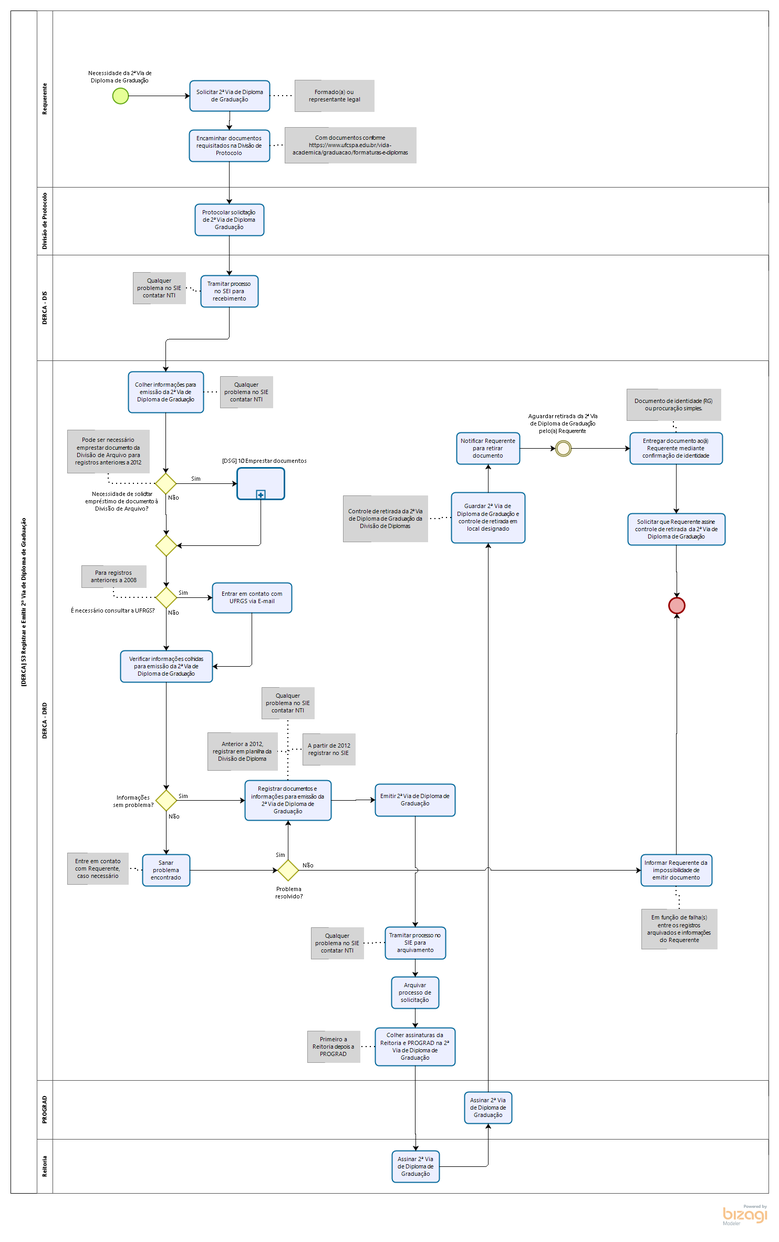
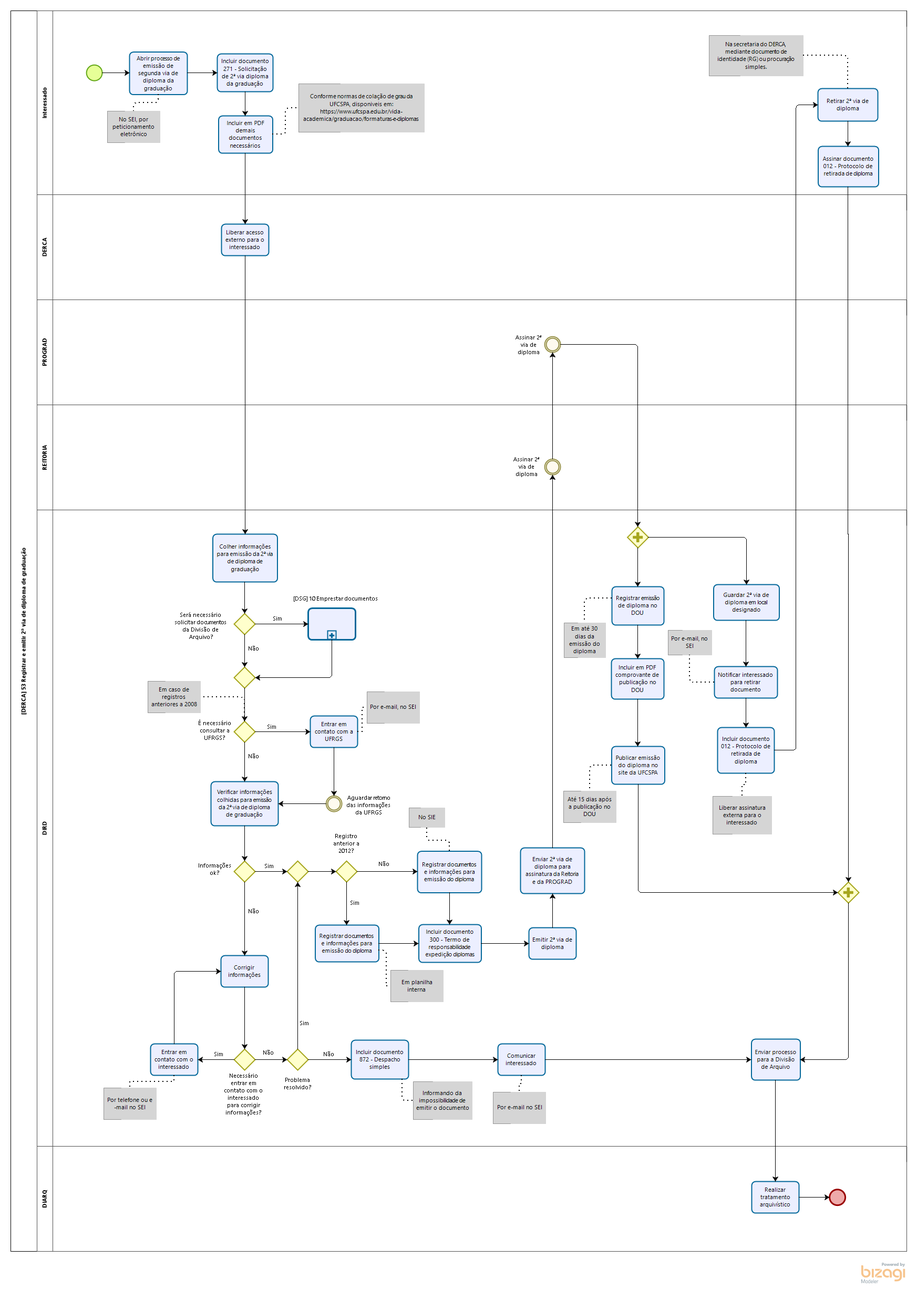
[DERCA]

diff --git a/DERCA/DERCA 53 Registrar e Emitir 2 Via de Diploma de Graduação/libs/js/json/configuration.json.js b/DERCA/DERCA 53 Registrar e Emitir 2 Via de Diploma de Graduação/libs/js/json/configuration.json.js
@@ -1,1 +1,1 @@
-Bizagi.AppModel = {"personalized":false,"userLogoName":"\\libs\\img\\biz-ex-logo.png","bizagiUrl":"http://www.bizagi.com","productName":"Bizagi Modeler","modelName":"[DERCA] 53 Registrar e Emitir 2ª Via de Diploma de Graduação","publishDate":"30/11/2020 16:06:32","pages":[{"id":"8a4c0eea-1cdb-470b-936f-0b0d9f3e6386","name":"[DERCA] 53 Registrar e Emitir 2ª Via de Diploma de Graduação","version":"1.0","author":"rene","image":"files\\diagrams\\DERCA]_53_Registrar_e_Emitir_2ª_Via_de_Diploma_de_Graduacao.png","isSubprocessPage":false,"elements":[{"id":"01489ed8-34c3-4faa-807f-bab0b367f8d5","name":"[DERCA] 53 Registrar e Emitir 2ª Via de Diploma de Graduação","elementImage":"files\\bpmnElements\\Participant.png","imageBounds":{"points":[{"x":20.0,"y":20.0}],"radius":0.0,"height":2251.0,"width":50.0,"shape":"rect"},"elementType":"Participant","properties":[],"pageElements":[{"id":"c446fce6-6dc6-41c4-bca2-61942ecdabb0","name":"Necessidade da 2ª Via de Diploma de Graduação","description":"<p style=\"text-align:left;text-indent:0pt;margin:0pt 0pt 0pt 0pt;\"><span style=\"color:#000000;background-color:transparent;font-family:'Segoe UI';font-size:8pt;font-weight:normal;font-style:normal;\">ENTRADA: Emiss&atilde;o da 1&ordf; Via de Diploma de Gradua&ccedil;&atilde;o.</span></p>","elementImage":"files\\bpmnElements\\NoneStart.png","imageBounds":{"points":[{"x":214.0,"y":167.0}],"radius":15.0,"height":30.0,"width":30.0,"shape":"circle"},"elementType":"NoneStart"},{"id":"e1400e25-ceb3-4605-9e7b-141e7c8614f7","name":"Solicitar 2ª Via de Diploma de Graduação","elementImage":"files\\bpmnElements\\AbstractTask.png","imageBounds":{"points":[{"x":361.0,"y":153.0}],"radius":0.0,"height":58.0,"width":152.0,"shape":"rect"},"elementType":"AbstractTask","properties":[]},{"id":"b5c9bb30-aee4-4470-9a87-41ee8f9c48fb","name":"Encaminhar documentos requisitados na Divisão de Protocolo","elementImage":"files\\bpmnElements\\AbstractTask.png","imageBounds":{"points":[{"x":360.0,"y":247.0}],"radius":0.0,"height":60.0,"width":153.0,"shape":"rect"},"elementType":"AbstractTask","properties":[]},{"id":"3c1b6ada-9776-4c29-8565-107de4a1ed41","name":"Protocolar solicitação de 2ª Via de Diploma Graduação","elementImage":"files\\bpmnElements\\AbstractTask.png","imageBounds":{"points":[{"x":371.0,"y":388.0}],"radius":0.0,"height":60.0,"width":131.0,"shape":"rect"},"elementType":"AbstractTask","properties":[]},{"id":"c60624aa-551f-4e77-8e7e-547ebbbbc2e7","name":"Tramitar processo no SEI para recebimento","elementImage":"files\\bpmnElements\\AbstractTask.png","imageBounds":{"points":[{"x":382.0,"y":524.0}],"radius":0.0,"height":60.0,"width":109.0,"shape":"rect"},"elementType":"AbstractTask","properties":[]},{"id":"aa07d95d-6e63-45be-b76e-3e21f13a4a66","name":"Colher informações para emissão da 2ª Via de Diploma de Graduação","elementImage":"files\\bpmnElements\\AbstractTask.png","imageBounds":{"points":[{"x":244.0,"y":707.0}],"radius":0.0,"height":78.0,"width":143.0,"shape":"rect"},"elementType":"AbstractTask","properties":[]},{"id":"0115908d-727e-4f8b-919f-bd1780cbb0fe","name":"Necessidade de solicitar empréstimo de documento à Divisão de Arquivo?","elementImage":"files\\bpmnElements\\ExclusiveGateway.png","imageBounds":{"points":[{"x":295.0,"y":900.0}],"radius":0.0,"height":40.0,"width":40.0,"shape":"poly"},"elementType":"ExclusiveGateway","properties":[],"pageElements":[{"name":"Sim","elementType":"SequenceFlow","properties":[]},{"name":"Não","elementType":"SequenceFlow","properties":[]}]},{"id":"65c23f8b-062f-4036-a2ce-33e4ec86a4d1","name":"[DSG] 10 Emprestar documentos","description":"","elementImage":"files\\bpmnElements\\CallActivity.png","imageBounds":{"points":[{"x":451.0,"y":890.0}],"radius":0.0,"height":60.0,"width":90.0,"shape":"rect"},"elementType":"CallActivity","properties":[],"presentationAction":{"value":"https://nqi.ufcspa.edu.br/wiki/processos/DSG/%5bDSG%5d%2010%20Emprestar%20documentos/#list","type":"url"}},{"id":"8f3229b0-4dbb-44d1-9643-b129db01c342","name":"Gateway exclusivo","elementImage":"files\\bpmnElements\\ExclusiveGateway.png","imageBounds":{"points":[{"x":296.0,"y":1018.0}],"radius":0.0,"height":40.0,"width":40.0,"shape":"poly"},"elementType":"ExclusiveGateway","properties":[],"pageElements":[{"name":"É necessário consultar a UFRGS?","elementType":"SequenceFlow","properties":[]}]},{"id":"31cf0dbe-ad36-4611-a75f-c9e0933cb1b6","name":"É necessário consultar a UFRGS?","elementImage":"files\\bpmnElements\\ExclusiveGateway.png","imageBounds":{"points":[{"x":296.0,"y":1117.0}],"radius":0.0,"height":40.0,"width":40.0,"shape":"poly"},"elementType":"ExclusiveGateway","properties":[],"pageElements":[{"name":"Não","elementType":"SequenceFlow","properties":[]},{"name":"Sim","elementType":"SequenceFlow","properties":[]}]},{"id":"5a82620a-26ea-4ea5-9fc3-b03ca622b289","name":"Entrar em contato com UFRGS via E-mail","elementImage":"files\\bpmnElements\\AbstractTask.png","imageBounds":{"points":[{"x":404.0,"y":1109.0}],"radius":0.0,"height":57.0,"width":151.0,"shape":"rect"},"elementType":"AbstractTask","properties":[]},{"id":"28efeb24-f01d-4cf2-a0dc-5a2d58385eb8","name":"Verificar informações colhidas para emissão da 2ª Via de Diploma de Graduação","elementImage":"files\\bpmnElements\\AbstractTask.png","imageBounds":{"points":[{"x":229.0,"y":1238.0}],"radius":0.0,"height":60.0,"width":175.0,"shape":"rect"},"elementType":"AbstractTask","properties":[]},{"id":"0a31158f-e9da-465b-8a31-575000ee94bf","name":"Informações sem problema?","elementImage":"files\\bpmnElements\\ExclusiveGateway.png","imageBounds":{"points":[{"x":296.0,"y":1503.0}],"radius":0.0,"height":40.0,"width":40.0,"shape":"poly"},"elementType":"ExclusiveGateway","properties":[],"pageElements":[{"name":"Sim","elementType":"SequenceFlow","properties":[]},{"name":"Não","elementType":"SequenceFlow","properties":[]}]},{"id":"36b78620-e076-4aed-b0b1-16fd2925d4c9","name":"Sanar problema encontrado","elementImage":"files\\bpmnElements\\AbstractTask.png","imageBounds":{"points":[{"x":271.0,"y":1626.0}],"radius":0.0,"height":60.0,"width":90.0,"shape":"rect"},"elementType":"AbstractTask","properties":[]},{"id":"d6caae2c-d29d-4878-be85-a0043cc6c3fe","name":"Problema resolvido?","elementImage":"files\\bpmnElements\\ExclusiveGateway.png","imageBounds":{"points":[{"x":528.0,"y":1636.0}],"radius":0.0,"height":40.0,"width":40.0,"shape":"poly"},"elementType":"ExclusiveGateway","properties":[],"pageElements":[{"name":"Sim","elementType":"SequenceFlow","properties":[]},{"name":"Não","elementType":"SequenceFlow","properties":[]}]},{"id":"451b8835-05cc-493b-9b79-670c7bcc7b38","name":"Informar Requerente da impossibilidade de emitir documento","elementImage":"files\\bpmnElements\\AbstractTask.png","imageBounds":{"points":[{"x":1220.0,"y":1626.0}],"radius":0.0,"height":60.0,"width":135.0,"shape":"rect"},"elementType":"AbstractTask","properties":[]},{"id":"9e221aef-8d4e-494f-991b-c794dc329d89","name":"Registrar documentos e informações para emissão da 2ª Via de Diploma de Graduação","elementImage":"files\\bpmnElements\\AbstractTask.png","imageBounds":{"points":[{"x":466.0,"y":1485.0}],"radius":0.0,"height":76.0,"width":164.0,"shape":"rect"},"elementType":"AbstractTask","properties":[]},{"id":"615d0124-a5c5-4a30-8c3b-1a2af36f67e9","name":"Emitir 2ª Via de Diploma de Graduação","elementImage":"files\\bpmnElements\\AbstractTask.png","imageBounds":{"points":[{"x":714.0,"y":1492.0}],"radius":0.0,"height":61.0,"width":152.0,"shape":"rect"},"elementType":"AbstractTask","properties":[]},{"id":"5e33b890-0d77-4be4-91cd-88d54d716da1","name":"Tramitar processo no SIE para arquivamento","elementImage":"files\\bpmnElements\\AbstractTask.png","imageBounds":{"points":[{"x":733.0,"y":1764.0}],"radius":0.0,"height":61.0,"width":115.0,"shape":"rect"},"elementType":"AbstractTask","properties":[]},{"id":"38dea01a-7791-4512-9339-6b39bf56c496","name":"Arquivar processo de solicitação","elementImage":"files\\bpmnElements\\AbstractTask.png","imageBounds":{"points":[{"x":745.0,"y":1859.0}],"radius":0.0,"height":60.0,"width":90.0,"shape":"rect"},"elementType":"AbstractTask","properties":[]},{"id":"ece3b62f-89d7-4378-8a1a-c40f2cd5f5ce","name":"Colher assinaturas da Reitoria e PROGRAD na 2ª Via de Diploma de Graduação","elementImage":"files\\bpmnElements\\AbstractTask.png","imageBounds":{"points":[{"x":714.0,"y":1956.0}],"radius":0.0,"height":72.0,"width":152.0,"shape":"rect"},"elementType":"AbstractTask","properties":[]},{"id":"fa863f5b-e12c-4960-b7b9-015134a0945b","name":"Assinar 2ª Via  de Diploma de Graduação","elementImage":"files\\bpmnElements\\AbstractTask.png","imageBounds":{"points":[{"x":746.0,"y":2190.0}],"radius":0.0,"height":60.0,"width":90.0,"shape":"rect"},"elementType":"AbstractTask","properties":[]},{"id":"60147344-afc3-48f7-a8a2-cbdec200822d","name":"Assinar 2ª Via de Diploma de Graduação","elementImage":"files\\bpmnElements\\AbstractTask.png","imageBounds":{"points":[{"x":884.0,"y":2078.0}],"radius":0.0,"height":60.0,"width":90.0,"shape":"rect"},"elementType":"AbstractTask","properties":[]},{"id":"2e916e87-e34b-4fa5-9615-419ae664e109","name":"Guardar 2ª Via de Diploma de Graduação e controle de retirada em local designado","elementImage":"files\\bpmnElements\\AbstractTask.png","imageBounds":{"points":[{"x":859.0,"y":937.0}],"radius":0.0,"height":96.0,"width":140.0,"shape":"rect"},"elementType":"AbstractTask","properties":[]},{"id":"7d319b7f-1cb6-4e77-8dd9-adee5b2df47c","name":"Notificar Requerente para retirar documento","elementImage":"files\\bpmnElements\\AbstractTask.png","imageBounds":{"points":[{"x":869.0,"y":823.0}],"radius":0.0,"height":60.0,"width":120.0,"shape":"rect"},"elementType":"AbstractTask","properties":[]},{"id":"412f071d-3b66-4b41-9cc9-55d953189f04","name":"Aguardar retirada  da 2ª Via de Diploma de Graduação pelo(a) Requerente","elementImage":"files\\bpmnElements\\NoneIntermediate.png","imageBounds":{"points":[{"x":1057.0,"y":838.0}],"radius":15.0,"height":30.0,"width":30.0,"shape":"circle"},"elementType":"NoneIntermediate"},{"id":"53ebac70-2a30-4576-b779-170add3f7f67","name":"Entregar documento ao(à) Requerente mediante confirmação de identidade","elementImage":"files\\bpmnElements\\AbstractTask.png","imageBounds":{"points":[{"x":1199.0,"y":823.0}],"radius":0.0,"height":60.0,"width":176.0,"shape":"rect"},"elementType":"AbstractTask","properties":[]},{"id":"80232e61-64ed-42cc-9cb6-c2d9d8c69105","name":"Solicitar que Requerente assine controle de retirada  da 2ª Via de Diploma de Graduação","elementImage":"files\\bpmnElements\\AbstractTask.png","imageBounds":{"points":[{"x":1195.0,"y":977.0}],"radius":0.0,"height":60.0,"width":185.0,"shape":"rect"},"elementType":"AbstractTask","properties":[]},{"id":"b7a23d73-e59c-4e1b-a719-cf3f44a92cba","name":"Nenhum final","description":"<p style=\"text-align:left;text-indent:0pt;margin:0pt 0pt 0pt 0pt;\"><span style=\"color:#000000;background-color:transparent;font-family:'Segoe UI';font-size:8pt;font-weight:normal;font-style:normal;\">SA&Iacute;DAS: (1) 2&ordf; Via de Diploma de Gradua&ccedil;&atilde;o emitido; (2) 2&ordf; Via de Diploma de Gradua&ccedil;&atilde;o n&atilde;o emitido; (3) E-mail de notifica&ccedil;&atilde;o solicitando retirada do documento enviado; (4) E-mail de notifica&ccedil;&atilde;o sobre a raz&atilde;o da n&atilde;o emiss&atilde;o do documento enviado; (5) 2&ordf; Via de Diploma de Gradua&ccedil;&atilde;o retirado; (6) 2&ordf; Via de Diploma de Gradua&ccedil;&atilde;o n&atilde;o retirado; (7) Processo de solicita&ccedil;&atilde;o de 2&ordf; Via de Diploma de Gradua&ccedil;&atilde;o arquivado.</span></p><p style=\"text-align:left;text-indent:0pt;margin:0pt 0pt 0pt 0pt;\"><span style=\"color:#000000;background-color:transparent;font-family:'Segoe UI';font-size:8pt;font-weight:normal;font-style:normal;\">&nbsp;</span></p><p style=\"text-align:left;text-indent:0pt;margin:0pt 0pt 0pt 0pt;\"><span style=\"color:#000000;background-color:transparent;font-family:'Segoe UI';font-size:8pt;font-weight:normal;font-style:normal;\">&nbsp;</span></p>","elementImage":"files\\bpmnElements\\NoneEnd.png","imageBounds":{"points":[{"x":1273.0,"y":1137.0}],"radius":15.0,"height":30.0,"width":30.0,"shape":"circle"},"elementType":"NoneEnd"},{"id":"82be3d87-1ec7-4278-8e8f-bc86758efd68","name":"Requerente","elementImage":"files\\bpmnElements\\Lane.png","imageBounds":{"points":[{"x":70.0,"y":20.0}],"radius":0.0,"height":336.0,"width":30.0,"shape":"rect"},"elementType":"Lane"},{"id":"8da87522-affb-429a-b737-3441f82411f3","name":"Divisão de Protocolo","elementImage":"files\\bpmnElements\\Lane.png","imageBounds":{"points":[{"x":70.0,"y":356.0}],"radius":0.0,"height":129.0,"width":30.0,"shape":"rect"},"elementType":"Lane"},{"id":"b117fa24-4048-45a8-8e89-7b93a30c5e38","name":"DERCA - DIS","elementImage":"files\\bpmnElements\\Lane.png","imageBounds":{"points":[{"x":70.0,"y":485.0}],"radius":0.0,"height":201.0,"width":30.0,"shape":"rect"},"elementType":"Lane"},{"id":"2353e909-0c55-4c09-b34d-de68ea36f091","name":"DERCA - DRD","elementImage":"files\\bpmnElements\\Lane.png","imageBounds":{"points":[{"x":70.0,"y":686.0}],"radius":0.0,"height":1370.0,"width":30.0,"shape":"rect"},"elementType":"Lane"},{"id":"51deacd1-ca98-461d-9830-fe6cd35300e4","name":"PROGRAD","elementImage":"files\\bpmnElements\\Lane.png","imageBounds":{"points":[{"x":70.0,"y":2056.0}],"radius":0.0,"height":112.0,"width":30.0,"shape":"rect"},"elementType":"Lane"},{"id":"f6dcb4bf-c90a-4c6a-be09-0f16c0a8aa2b","name":"Reitoria","elementImage":"files\\bpmnElements\\Lane.png","imageBounds":{"points":[{"x":70.0,"y":2168.0}],"radius":0.0,"height":103.0,"width":30.0,"shape":"rect"},"elementType":"Lane"}]}]}],"texts":{"tableOfContents":"Índice","pageNumber":"Página","pageNumberLabelOf":"de","version":"Versão","author":"Autor","description":"Descrição","mainPool":"Processo principal","mainPoolDescription":"Processo principal Descrição","processDiagrams":"Processar os Diagramas","processElements":"Elementos do processo","elements":"Elementos do processo","defaultElementName":"Elemento","performers":"Executantes","accountable":"Autoridade","consulted":"Consultado","informed":"Informado","connectors":"Conectores","connector":"Conector","home":"Principal","search":"Pesquisar","goToParentProcess":"<< Ir para Matriz","visitBizagi":"Visite bizagi.com","contains":"Contém {0} subprocessos","showAll":"Show all","fullScreen":"Tela inteira","zoomIn":"Ampliar","zoomOut":"Reduzir","close":"Fechar","menu":"Menu: ","errorPage":"Erro ao visualizar a página","process":"Processo","subProcess":"Subprocessos publicados","contain":"Contém","checkAttributes":"Ver atributos","checkOverview":"Ver resumo","unavailableResource":"O recurso não está disponível","localResource":"O recurso pode ser acessado localmente","performer":"Participantes","linktoimage":"Link para a  imagem","presentationAction":"Ações de apresentação","searchGlobal":"Busca todos","searchLocal":"Busca neste processo","searchResults":"Nenhum resultado encontrado","titlePage":"Start","emptyElement":"Este elemento ainda não foi documentado","unsupported":"Seu navegador não suporta conteúdo exibido por esta página. <br> Recomendamos que você atualizar o seu navegador.","details":"Detalhes","expand":"Expandir","mainPoolProperties":"Propriedades do Processo principal","cannotVisualize":"The page cannot be displayed","resourceNotFound":"The requested resource was not found:","applyTheme":"Applying new theme"},"searchMap":[{"containerId":"8a4c0eea-1cdb-470b-936f-0b0d9f3e6386","containerName":"[DERCA] 53 Registrar e Emitir 2ª Via de Diploma de Graduação","isSubprocess":false,"elements":[{"id":"01489ed8-34c3-4faa-807f-bab0b367f8d5","value":"[DERCA] 53 Registrar e Emitir 2ª Via de Diploma de Graduação"},{"id":"82be3d87-1ec7-4278-8e8f-bc86758efd68","value":"Requerente"},{"id":"8da87522-affb-429a-b737-3441f82411f3","value":"Divisão de Protocolo"},{"id":"b117fa24-4048-45a8-8e89-7b93a30c5e38","value":"DERCA - DIS"},{"id":"2353e909-0c55-4c09-b34d-de68ea36f091","value":"DERCA - DRD"},{"id":"51deacd1-ca98-461d-9830-fe6cd35300e4","value":"PROGRAD"},{"id":"f6dcb4bf-c90a-4c6a-be09-0f16c0a8aa2b","value":"Reitoria"},{"id":"e1400e25-ceb3-4605-9e7b-141e7c8614f7","value":"Solicitar 2ª Via de Diploma de Graduação"},{"id":"c446fce6-6dc6-41c4-bca2-61942ecdabb0","value":"Necessidade da 2ª Via de Diploma de Graduação"},{"id":"3c1b6ada-9776-4c29-8565-107de4a1ed41","value":"Protocolar solicitação de 2ª Via de Diploma Graduação"},{"id":"aa07d95d-6e63-45be-b76e-3e21f13a4a66","value":"Colher informações para emissão da 2ª Via de Diploma de Graduação"},{"id":"b5c9bb30-aee4-4470-9a87-41ee8f9c48fb","value":"Encaminhar documentos requisitados na Divisão de Protocolo"},{"id":"53ebac70-2a30-4576-b779-170add3f7f67","value":"Entregar documento ao(à) Requerente mediante confirmação de identidade"},{"id":"b7a23d73-e59c-4e1b-a719-cf3f44a92cba","value":""},{"id":"5e33b890-0d77-4be4-91cd-88d54d716da1","value":"Tramitar processo no SIE para arquivamento"},{"id":"ece3b62f-89d7-4378-8a1a-c40f2cd5f5ce","value":"Colher assinaturas da Reitoria e PROGRAD na 2ª Via de Diploma de Graduação"},{"id":"fa863f5b-e12c-4960-b7b9-015134a0945b","value":"Assinar 2ª Via  de Diploma de Graduação"},{"id":"c60624aa-551f-4e77-8e7e-547ebbbbc2e7","value":"Tramitar processo no SEI para recebimento"},{"id":"60147344-afc3-48f7-a8a2-cbdec200822d","value":"Assinar 2ª Via de Diploma de Graduação"},{"id":"2e916e87-e34b-4fa5-9615-419ae664e109","value":"Guardar 2ª Via de Diploma de Graduação e controle de retirada em local designado"},{"id":"38dea01a-7791-4512-9339-6b39bf56c496","value":"Arquivar processo de solicitação"},{"id":"7d319b7f-1cb6-4e77-8dd9-adee5b2df47c","value":"Notificar Requerente para retirar documento"},{"id":"80232e61-64ed-42cc-9cb6-c2d9d8c69105","value":"Solicitar que Requerente assine controle de retirada  da 2ª Via de Diploma de Graduação"},{"id":"412f071d-3b66-4b41-9cc9-55d953189f04","value":"Aguardar retirada  da 2ª Via de Diploma de Graduação pelo(a) Requerente"},{"id":"0115908d-727e-4f8b-919f-bd1780cbb0fe","value":"Necessidade de solicitar empréstimo de documento à Divisão de Arquivo?"},{"id":"36b78620-e076-4aed-b0b1-16fd2925d4c9","value":"Sanar problema encontrado"},{"id":"d6caae2c-d29d-4878-be85-a0043cc6c3fe","value":"Problema resolvido?"},{"id":"0a31158f-e9da-465b-8a31-575000ee94bf","value":"Informações sem problema?"},{"id":"615d0124-a5c5-4a30-8c3b-1a2af36f67e9","value":"Emitir 2ª Via de Diploma de Graduação"},{"id":"9e221aef-8d4e-494f-991b-c794dc329d89","value":"Registrar documentos e informações para emissão da 2ª Via de Diploma de Graduação"},{"id":"451b8835-05cc-493b-9b79-670c7bcc7b38","value":"Informar Requerente da impossibilidade de emitir documento"},{"id":"31cf0dbe-ad36-4611-a75f-c9e0933cb1b6","value":"É necessário consultar a UFRGS?"},{"id":"28efeb24-f01d-4cf2-a0dc-5a2d58385eb8","value":"Verificar informações colhidas para emissão da 2ª Via de Diploma de Graduação"},{"id":"5a82620a-26ea-4ea5-9fc3-b03ca622b289","value":"Entrar em contato com UFRGS via E-mail"},{"id":"8f3229b0-4dbb-44d1-9643-b129db01c342","value":""},{"id":"65c23f8b-062f-4036-a2ce-33e4ec86a4d1","value":"[DSG] 10 Emprestar documentos"},{"id":"f8761f9b-e57c-4fae-86a1-1ff68868bbd1"},{"id":"51026777-1759-4b75-91c6-7874e9718b21"},{"id":"d5430ba7-4f12-4ae0-9b97-2539f2bca367"},{"id":"f0257f97-0169-4f32-879d-1377d08acf36"},{"id":"d434f57b-a16f-4002-8aa9-f4e86ddbced6"},{"id":"980a712a-af4a-4475-a74c-174cbf60cc9c"},{"id":"82e710f7-561f-4d57-983a-e270e1c3b9a2"},{"id":"3da7e50b-0bdc-4f5a-8b53-f9b0be80f7a1"},{"id":"530352eb-ad9d-449e-be3e-c27c5fe9c17a"},{"id":"9167d086-c56a-4966-bbbf-e29f04be29a9"},{"id":"01c8e8d3-2f76-4945-b516-a6c7da84976e"},{"id":"18c228dd-be99-4510-9b0f-c0c5c689b76e"},{"id":"7efe22ae-cb97-4f4b-a51e-e04225bf5106"},{"id":"fc2fe099-7572-47e1-a8fa-dae7a5912534"},{"id":"081e573f-e401-40a0-b26e-21abdfd25421"},{"id":"e46628ca-df08-4690-83fe-97946155b5ec"},{"id":"d251a3cc-24b9-480d-a580-67c04cdadd46"},{"id":"b60e0084-e151-4236-ac60-68712b9ff930"},{"id":"bf3bcad4-dc78-42d5-8472-5d8ae4e9521d"},{"id":"d16470c0-9c11-4715-94ac-893c6a8d4fe2"},{"id":"7ccff44a-1838-4616-904a-45b76b8b7967"},{"id":"23aaa061-a64a-4330-8d24-98c590d0bd8c"},{"id":"3352f431-dbe8-4e8b-a72f-79975e8e7acf"},{"id":"c39796fe-9327-433d-8b9c-ea524751c0b5"},{"id":"fab77ec1-3a47-4931-aeef-040fda18b1b6"},{"id":"4175e1df-c8d1-4bb2-b42c-db9b2a424610"},{"id":"dc2d4cd6-5642-41b0-8c18-e3f157a43977"},{"id":"cfccc667-3c3b-4353-8851-4e8d52b2e699"},{"id":"54529dad-472f-4fa4-82bd-11ada5591790"},{"id":"4b054e08-2b1f-4b6b-a44b-791deca15210"}]}]}
+Bizagi.AppModel = {"personalized":false,"userLogoName":"\\libs\\img\\biz-ex-logo.png","bizagiUrl":"http://www.bizagi.com","productName":"Bizagi Modeler","modelName":"[DERCA] 53 Registrar e emitir 2ª via de diploma de graduação","publishDate":"08/01/2021 17:14:28","pages":[{"id":"c1f125a7-11f8-493f-9c89-bcead161ce93","name":"[DERCA] 53 Registrar e emitir 2ª via de diploma de graduação","version":"1.0","author":"ariel","image":"files\\diagrams\\DERCA]_53_Registrar_e_emitir_2ª_via_de_diploma_de_graduacao.png","isSubprocessPage":false,"elements":[{"id":"16a8c3b0-fb68-4d62-9179-b0da5496fb4c","name":"[DERCA] 53 Registrar e emitir 2ª via de diploma de graduação","elementImage":"files\\bpmnElements\\Participant.png","imageBounds":{"points":[{"x":20.0,"y":20.0}],"radius":0.0,"height":2361.0,"width":50.0,"shape":"rect"},"elementType":"Participant","properties":[],"pageElements":[{"id":"40794d1e-03fc-4053-a182-6c30f6b2aa00","name":"Nenhum início","elementImage":"files\\bpmnElements\\NoneStart.png","imageBounds":{"points":[{"x":164.0,"y":123.0}],"radius":15.0,"height":30.0,"width":30.0,"shape":"circle"},"elementType":"NoneStart"},{"id":"7bfa67b1-fdd0-4404-8463-59ad1ea5eceb","name":"Abrir processo de emissão de segunda via de diploma da graduação","elementImage":"files\\bpmnElements\\AbstractTask.png","imageBounds":{"points":[{"x":246.0,"y":98.5}],"radius":0.0,"height":81.0,"width":110.0,"shape":"rect"},"elementType":"AbstractTask","properties":[]},{"id":"b7075666-ff32-4d95-9ef2-0b4da6000364","name":"Incluir documento 271 - Solicitação de 2ª via diploma da graduação","elementImage":"files\\bpmnElements\\AbstractTask.png","imageBounds":{"points":[{"x":413.0,"y":102.0}],"radius":0.0,"height":72.0,"width":106.0,"shape":"rect"},"elementType":"AbstractTask","properties":[]},{"id":"8ef121d2-2aac-4b43-952c-838503bd941e","name":"Incluir em PDF demais documentos necessários","elementImage":"files\\bpmnElements\\AbstractTask.png","imageBounds":{"points":[{"x":415.5,"y":220.0}],"radius":0.0,"height":71.0,"width":103.0,"shape":"rect"},"elementType":"AbstractTask","properties":[]},{"id":"ab53e4a1-ccf0-4f14-9b14-6254ddced416","name":"Liberar acesso externo para o interessado","elementImage":"files\\bpmnElements\\AbstractTask.png","imageBounds":{"points":[{"x":421.0,"y":426.0}],"radius":0.0,"height":60.0,"width":90.0,"shape":"rect"},"elementType":"AbstractTask","properties":[]},{"id":"89302ca5-0d97-433f-9c7b-cfb7fb2deebf","name":"Colher informações para emissão da 2ª via de diploma de graduação","elementImage":"files\\bpmnElements\\AbstractTask.png","imageBounds":{"points":[{"x":404.5,"y":1016.0}],"radius":0.0,"height":91.0,"width":123.0,"shape":"rect"},"elementType":"AbstractTask","properties":[]},{"id":"6221e416-c7ae-4ff5-aa83-eb2b7bb41ba1","name":"Será necessário solicitar documentos da Divisão de Arquivo?","elementImage":"files\\bpmnElements\\ExclusiveGateway.png","imageBounds":{"points":[{"x":445.0,"y":1167.0}],"radius":0.0,"height":40.0,"width":40.0,"shape":"poly"},"elementType":"ExclusiveGateway","properties":[],"pageElements":[{"name":"Sim","elementType":"SequenceFlow","properties":[]},{"name":"Não","elementType":"SequenceFlow","properties":[]}]},{"id":"d2170b40-72f6-4de0-ab25-e6d2b75ee5ff","name":"[DSG] 10 Emprestar documentos","description":"","elementImage":"files\\bpmnElements\\CallActivity.png","imageBounds":{"points":[{"x":586.0,"y":1157.0}],"radius":0.0,"height":60.0,"width":90.0,"shape":"rect"},"elementType":"CallActivity","properties":[],"presentationAction":{"value":"https://nqi.ufcspa.edu.br/wiki/processos/DSG/%5bDSG%5d%2010%20Emprestar%20documentos/#list","type":"url"}},{"id":"3f96a86c-060b-4aa7-b194-cea4ab5e2f8b","name":"Gateway exclusivo","elementImage":"files\\bpmnElements\\ExclusiveGateway.png","imageBounds":{"points":[{"x":445.0,"y":1269.0}],"radius":0.0,"height":40.0,"width":40.0,"shape":"poly"},"elementType":"ExclusiveGateway","properties":[],"pageElements":[{"name":"É necessário consultar a UFRGS?","elementType":"SequenceFlow","properties":[]}]},{"id":"6b40da0e-c80c-49da-b46e-543cf685f725","name":"É necessário consultar a UFRGS?","elementImage":"files\\bpmnElements\\ExclusiveGateway.png","imageBounds":{"points":[{"x":445.0,"y":1372.0}],"radius":0.0,"height":40.0,"width":40.0,"shape":"poly"},"elementType":"ExclusiveGateway","properties":[],"pageElements":[{"name":"Sim","elementType":"SequenceFlow","properties":[]},{"name":"Não","elementType":"SequenceFlow","properties":[]}]},{"id":"4c900dc9-d5d6-4963-b43f-f9d5e3272ebd","name":"Entrar em contato com a UFRGS","elementImage":"files\\bpmnElements\\AbstractTask.png","imageBounds":{"points":[{"x":590.0,"y":1362.0}],"radius":0.0,"height":60.0,"width":90.0,"shape":"rect"},"elementType":"AbstractTask","properties":[]},{"id":"2f6f6c4d-3f29-49fe-a91d-b6714d8847ff","name":"Aguardar retorno das informações da UFRGS","elementImage":"files\\bpmnElements\\NoneIntermediate.png","imageBounds":{"points":[{"x":620.0,"y":1514.0}],"radius":15.0,"height":30.0,"width":30.0,"shape":"circle"},"elementType":"NoneIntermediate"},{"id":"6caba6ee-4344-49c5-b967-aa84229ef483","name":"Verificar informações colhidas para emissão da 2ª via de diploma de graduação","elementImage":"files\\bpmnElements\\AbstractTask.png","imageBounds":{"points":[{"x":401.0,"y":1487.0}],"radius":0.0,"height":84.0,"width":128.0,"shape":"rect"},"elementType":"AbstractTask","properties":[]},{"id":"9bf6f93e-7dd7-462b-94bb-62af2d5268e2","name":"Informações ok?","elementImage":"files\\bpmnElements\\ExclusiveGateway.png","imageBounds":{"points":[{"x":445.0,"y":1638.0}],"radius":0.0,"height":40.0,"width":40.0,"shape":"poly"},"elementType":"ExclusiveGateway","properties":[],"pageElements":[{"name":"Sim","elementType":"SequenceFlow","properties":[]},{"name":"Não","elementType":"SequenceFlow","properties":[]}]},{"id":"b03add83-7c0e-41f0-b25f-bc8d0799bc2c","name":"Corrigir informações","elementImage":"files\\bpmnElements\\AbstractTask.png","imageBounds":{"points":[{"x":420.0,"y":1818.0}],"radius":0.0,"height":60.0,"width":90.0,"shape":"rect"},"elementType":"AbstractTask","properties":[]},{"id":"2c72aad2-4e3d-49b9-b007-a95bf34c2c9d","name":"Necessário entrar em contato com o interessado para corrigir informações?","elementImage":"files\\bpmnElements\\ExclusiveGateway.png","imageBounds":{"points":[{"x":445.0,"y":1996.0}],"radius":0.0,"height":40.0,"width":40.0,"shape":"poly"},"elementType":"ExclusiveGateway","properties":[],"pageElements":[{"name":"Não","elementType":"SequenceFlow","properties":[]},{"name":"Sim","elementType":"SequenceFlow","properties":[]}]},{"id":"2259fdae-fce1-4b7d-a0a9-a7c08e865edf","name":"Entrar em contato com o interessado","elementImage":"files\\bpmnElements\\AbstractTask.png","imageBounds":{"points":[{"x":286.0,"y":1986.0}],"radius":0.0,"height":60.0,"width":90.0,"shape":"rect"},"elementType":"AbstractTask","properties":[]},{"id":"03aa3b77-41b1-4b51-a982-6082e5383755","name":"Problema resolvido?","elementImage":"files\\bpmnElements\\ExclusiveGateway.png","imageBounds":{"points":[{"x":546.0,"y":1996.0}],"radius":0.0,"height":40.0,"width":40.0,"shape":"poly"},"elementType":"ExclusiveGateway","properties":[],"pageElements":[{"name":"Sim","elementType":"SequenceFlow","properties":[]},{"name":"Não","elementType":"SequenceFlow","properties":[]}]},{"id":"40c0de43-6cf8-43dd-97ce-924e82c33696","name":"Incluir documento 872 - Despacho simples","elementImage":"files\\bpmnElements\\AbstractTask.png","imageBounds":{"points":[{"x":668.0,"y":1979.0}],"radius":0.0,"height":74.0,"width":109.0,"shape":"rect"},"elementType":"AbstractTask","properties":[]},{"id":"2b7006d4-030c-47ba-99c6-df4aacaec8e6","name":"Comunicar interessado","elementImage":"files\\bpmnElements\\AbstractTask.png","imageBounds":{"points":[{"x":947.0,"y":1986.0}],"radius":0.0,"height":60.0,"width":90.0,"shape":"rect"},"elementType":"AbstractTask","properties":[]},{"id":"2973e377-9d26-47c4-a490-d9078e412783","name":"Gateway exclusivo","elementImage":"files\\bpmnElements\\ExclusiveGateway.png","imageBounds":{"points":[{"x":546.0,"y":1638.0}],"radius":0.0,"height":40.0,"width":40.0,"shape":"poly"},"elementType":"ExclusiveGateway","properties":[],"pageElements":[{"name":"Registro anterior a 2012?","elementType":"SequenceFlow","properties":[]}]},{"id":"f2cee320-30ea-4759-a26d-73569d1a3da4","name":"Registro anterior a 2012?","elementImage":"files\\bpmnElements\\ExclusiveGateway.png","imageBounds":{"points":[{"x":639.0,"y":1638.0}],"radius":0.0,"height":40.0,"width":40.0,"shape":"poly"},"elementType":"ExclusiveGateway","properties":[],"pageElements":[{"name":"Sim","elementType":"SequenceFlow","properties":[]},{"name":"Não","elementType":"SequenceFlow","properties":[]}]},{"id":"42c8c040-eef0-4dd4-af22-62f9e848bc7e","name":"Registrar documentos e informações para emissão do diploma","elementImage":"files\\bpmnElements\\AbstractTask.png","imageBounds":{"points":[{"x":599.5,"y":1760.0}],"radius":0.0,"height":70.0,"width":121.0,"shape":"rect"},"elementType":"AbstractTask","properties":[]},{"id":"99179b5c-68ad-4d7f-a986-c6233ee4ff03","name":"Registrar documentos e informações para emissão do diploma","elementImage":"files\\bpmnElements\\AbstractTask.png","imageBounds":{"points":[{"x":794.0,"y":1619.5}],"radius":0.0,"height":79.0,"width":122.0,"shape":"rect"},"elementType":"AbstractTask","properties":[]},{"id":"9fd18934-02b4-4165-af83-0f63268915fd","name":"Incluir documento 300 - Termo de responsabilidade expedição diplomas","elementImage":"files\\bpmnElements\\AbstractTask.png","imageBounds":{"points":[{"x":796.5,"y":1759.0}],"radius":0.0,"height":72.0,"width":119.0,"shape":"rect"},"elementType":"AbstractTask","properties":[]},{"id":"6eb16cef-bc81-4f33-8f6c-eeb4492117d7","name":"Emitir 2ª via de diploma","elementImage":"files\\bpmnElements\\AbstractTask.png","imageBounds":{"points":[{"x":1006.0,"y":1765.0}],"radius":0.0,"height":60.0,"width":90.0,"shape":"rect"},"elementType":"AbstractTask","properties":[]},{"id":"0aa1c074-a90f-45c9-97a3-fdcd60480924","name":"Enviar 2ª via de diploma para assinatura da Reitoria e da PROGRAD","elementImage":"files\\bpmnElements\\AbstractTask.png","imageBounds":{"points":[{"x":990.0,"y":1613.0}],"radius":0.0,"height":87.0,"width":122.0,"shape":"rect"},"elementType":"AbstractTask","properties":[]},{"id":"06d46381-6352-4f37-b41e-8cf8ebd7b5e3","name":"Assinar 2ª via de  diploma","elementImage":"files\\bpmnElements\\NoneIntermediate.png","imageBounds":{"points":[{"x":1036.0,"y":873.0}],"radius":15.0,"height":30.0,"width":30.0,"shape":"circle"},"elementType":"NoneIntermediate"},{"id":"48a688df-f7bc-427f-978e-c7ef87923736","name":"Assinar 2ª via de  diploma","elementImage":"files\\bpmnElements\\NoneIntermediate.png","imageBounds":{"points":[{"x":1036.0,"y":640.0}],"radius":15.0,"height":30.0,"width":30.0,"shape":"circle"},"elementType":"NoneIntermediate"},{"id":"235af4ea-f38f-43e2-977b-d337c8d1c2ae","name":"Gateway paralelo","elementImage":"files\\bpmnElements\\ParallelGateway.png","imageBounds":{"points":[{"x":1193.5,"y":1002.0}],"radius":0.0,"height":40.0,"width":40.0,"shape":"poly"},"elementType":"ParallelGateway","properties":[],"pageElements":[]},{"id":"306dcd37-ef60-4f16-9b7a-cce7dd52cca5","name":"Guardar 2ª via de diploma em local designado","elementImage":"files\\bpmnElements\\AbstractTask.png","imageBounds":{"points":[{"x":1357.5,"y":1112.0}],"radius":0.0,"height":68.0,"width":125.0,"shape":"rect"},"elementType":"AbstractTask","properties":[]},{"id":"83d614cb-dade-491d-969d-c4fe3d064c16","name":"Notificar interessado para retirar documento","elementImage":"files\\bpmnElements\\AbstractTask.png","imageBounds":{"points":[{"x":1359.0,"y":1268.0}],"radius":0.0,"height":60.0,"width":120.0,"shape":"rect"},"elementType":"AbstractTask","properties":[]},{"id":"ce40b3dc-370d-4b25-b1d1-651ea2886686","name":"Incluir documento 012 - Protocolo de retirada de diploma","elementImage":"files\\bpmnElements\\AbstractTask.png","imageBounds":{"points":[{"x":1365.0,"y":1384.0}],"radius":0.0,"height":87.0,"width":108.0,"shape":"rect"},"elementType":"AbstractTask","properties":[]},{"id":"a2df6ca2-3cb5-4b6b-af2e-68b6d72ade9c","name":"Retirar 2ª via de diploma","elementImage":"files\\bpmnElements\\AbstractTask.png","imageBounds":{"points":[{"x":1556.0,"y":168.0}],"radius":0.0,"height":62.0,"width":114.0,"shape":"rect"},"elementType":"AbstractTask","properties":[]},{"id":"6ea59009-0fe4-4be8-bcdf-0aa3511f75ee","name":"Assinar documento 012 - Protocolo de retirada de diploma","elementImage":"files\\bpmnElements\\AbstractTask.png","imageBounds":{"points":[{"x":1556.5,"y":278.0}],"radius":0.0,"height":77.0,"width":115.0,"shape":"rect"},"elementType":"AbstractTask","properties":[]},{"id":"609b9602-e645-441a-bf43-bdcabb0e2a32","name":"Registrar emissão de diploma no DOU","elementImage":"files\\bpmnElements\\AbstractTask.png","imageBounds":{"points":[{"x":1164.0,"y":1116.0}],"radius":0.0,"height":73.0,"width":99.0,"shape":"rect"},"elementType":"AbstractTask","properties":[]},{"id":"6184b0d4-7f66-4d00-9159-8a28363ed3f1","name":"Incluir em PDF comprovante de publicação no DOU","elementImage":"files\\bpmnElements\\AbstractTask.png","imageBounds":{"points":[{"x":1163.0,"y":1253.0}],"radius":0.0,"height":77.0,"width":100.0,"shape":"rect"},"elementType":"AbstractTask","properties":[]},{"id":"3556573a-e318-457b-b287-c746d646e86e","name":"Publicar emissão do diploma no site da UFCSPA","elementImage":"files\\bpmnElements\\AbstractTask.png","imageBounds":{"points":[{"x":1163.5,"y":1420.0}],"radius":0.0,"height":72.0,"width":101.0,"shape":"rect"},"elementType":"AbstractTask","properties":[]},{"id":"bf6afc70-90d9-4ed5-b345-5f103f6bbf3b","name":"Gateway paralelo","elementImage":"files\\bpmnElements\\ParallelGateway.png","imageBounds":{"points":[{"x":1594.0,"y":1678.0}],"radius":0.0,"height":40.0,"width":40.0,"shape":"poly"},"elementType":"ParallelGateway","properties":[],"pageElements":[]},{"id":"4f37675b-a295-48a6-9184-b0043bfeb3f2","name":"Enviar processo para a Divisão de Arquivo","elementImage":"files\\bpmnElements\\AbstractTask.png","imageBounds":{"points":[{"x":1429.5,"y":1977.0}],"radius":0.0,"height":78.0,"width":93.0,"shape":"rect"},"elementType":"AbstractTask","properties":[]},{"id":"d348d162-4808-4ae0-ae0c-836736376d7d","name":"Realizar tratamento arquivístico","elementImage":"files\\bpmnElements\\AbstractTask.png","imageBounds":{"points":[{"x":1430.0,"y":2248.0}],"radius":0.0,"height":60.0,"width":90.0,"shape":"rect"},"elementType":"AbstractTask","properties":[]},{"id":"0098e8d8-eb92-471d-962c-5fe972840707","name":"Nenhum final","elementImage":"files\\bpmnElements\\NoneEnd.png","imageBounds":{"points":[{"x":1578.0,"y":2263.0}],"radius":15.0,"height":30.0,"width":30.0,"shape":"circle"},"elementType":"NoneEnd"},{"id":"0392928a-1baf-4ece-bb1b-168ac280bb73","name":"Interessado","elementImage":"files\\bpmnElements\\Lane.png","imageBounds":{"points":[{"x":70.0,"y":20.0}],"radius":0.0,"height":350.0,"width":30.0,"shape":"rect"},"elementType":"Lane"},{"id":"a3e8563e-17b1-409f-9f7c-64da766c38b9","name":"DERCA","elementImage":"files\\bpmnElements\\Lane.png","imageBounds":{"points":[{"x":70.0,"y":370.0}],"radius":0.0,"height":200.0,"width":30.0,"shape":"rect"},"elementType":"Lane"},{"id":"c013711e-7601-44d3-9694-0cf49c73cb0b","name":"PROGRAD","elementImage":"files\\bpmnElements\\Lane.png","imageBounds":{"points":[{"x":70.0,"y":570.0}],"radius":0.0,"height":200.0,"width":30.0,"shape":"rect"},"elementType":"Lane"},{"id":"43ff7991-69e6-4206-9ed1-0681a73741a2","name":"REITORIA","elementImage":"files\\bpmnElements\\Lane.png","imageBounds":{"points":[{"x":70.0,"y":770.0}],"radius":0.0,"height":200.0,"width":30.0,"shape":"rect"},"elementType":"Lane"},{"id":"aed76559-5344-49e1-80fb-2a7a00b3ded6","name":"DIRD","elementImage":"files\\bpmnElements\\Lane.png","imageBounds":{"points":[{"x":70.0,"y":970.0}],"radius":0.0,"height":1211.0,"width":30.0,"shape":"rect"},"elementType":"Lane"},{"id":"83bec1a7-6d14-4b2e-ad2f-95619ab517f4","name":"DIARQ","elementImage":"files\\bpmnElements\\Lane.png","imageBounds":{"points":[{"x":70.0,"y":2181.0}],"radius":0.0,"height":200.0,"width":30.0,"shape":"rect"},"elementType":"Lane"}]}]}],"texts":{"tableOfContents":"Índice","pageNumber":"Página","pageNumberLabelOf":"de","version":"Versão","author":"Autor","description":"Descrição","mainPool":"Processo principal","mainPoolDescription":"Processo principal Descrição","processDiagrams":"Processar os Diagramas","processElements":"Elementos do processo","elements":"Elementos do processo","defaultElementName":"Elemento","performers":"Executantes","accountable":"Autoridade","consulted":"Consultado","informed":"Informado","connectors":"Conectores","connector":"Conector","home":"Principal","search":"Pesquisar","goToParentProcess":"<< Ir para Matriz","visitBizagi":"Visite bizagi.com","contains":"Contém {0} subprocessos","showAll":"Show all","fullScreen":"Tela inteira","zoomIn":"Ampliar","zoomOut":"Reduzir","close":"Fechar","menu":"Menu: ","errorPage":"Erro ao visualizar a página","process":"Processo","subProcess":"Subprocessos publicados","contain":"Contém","checkAttributes":"Ver atributos","checkOverview":"Ver resumo","unavailableResource":"O recurso não está disponível","localResource":"O recurso pode ser acessado localmente","performer":"Participantes","linktoimage":"Link para a  imagem","presentationAction":"Ações de apresentação","searchGlobal":"Busca todos","searchLocal":"Busca neste processo","searchResults":"Nenhum resultado encontrado","titlePage":"Start","emptyElement":"Este elemento ainda não foi documentado","unsupported":"Seu navegador não suporta conteúdo exibido por esta página. <br> Recomendamos que você atualizar o seu navegador.","details":"Detalhes","expand":"Expandir","mainPoolProperties":"Propriedades do Processo principal","cannotVisualize":"The page cannot be displayed","resourceNotFound":"The requested resource was not found:","applyTheme":"Applying new theme"},"searchMap":[{"containerId":"c1f125a7-11f8-493f-9c89-bcead161ce93","containerName":"[DERCA] 53 Registrar e emitir 2ª via de diploma de graduação","isSubprocess":false,"elements":[{"id":"16a8c3b0-fb68-4d62-9179-b0da5496fb4c","value":"[DERCA] 53 Registrar e emitir 2ª via de diploma de graduação"},{"id":"0392928a-1baf-4ece-bb1b-168ac280bb73","value":"Interessado"},{"id":"a3e8563e-17b1-409f-9f7c-64da766c38b9","value":"DERCA"},{"id":"c013711e-7601-44d3-9694-0cf49c73cb0b","value":"PROGRAD"},{"id":"43ff7991-69e6-4206-9ed1-0681a73741a2","value":"REITORIA"},{"id":"aed76559-5344-49e1-80fb-2a7a00b3ded6","value":"DIRD"},{"id":"83bec1a7-6d14-4b2e-ad2f-95619ab517f4","value":"DIARQ"},{"id":"8ef121d2-2aac-4b43-952c-838503bd941e","value":"Incluir em PDF demais documentos necessários"},{"id":"40794d1e-03fc-4053-a182-6c30f6b2aa00","value":""},{"id":"7bfa67b1-fdd0-4404-8463-59ad1ea5eceb","value":"Abrir processo de emissão de segunda via de diploma da graduação"},{"id":"b7075666-ff32-4d95-9ef2-0b4da6000364","value":"Incluir documento 271 - Solicitação de 2ª via diploma da graduação"},{"id":"89302ca5-0d97-433f-9c7b-cfb7fb2deebf","value":"Colher informações para emissão da 2ª via de diploma de graduação"},{"id":"6221e416-c7ae-4ff5-aa83-eb2b7bb41ba1","value":"Será necessário solicitar documentos da Divisão de Arquivo?"},{"id":"d2170b40-72f6-4de0-ab25-e6d2b75ee5ff","value":"[DSG] 10 Emprestar documentos"},{"id":"3f96a86c-060b-4aa7-b194-cea4ab5e2f8b","value":""},{"id":"6b40da0e-c80c-49da-b46e-543cf685f725","value":"É necessário consultar a UFRGS?"},{"id":"4c900dc9-d5d6-4963-b43f-f9d5e3272ebd","value":"Entrar em contato com a UFRGS"},{"id":"ab53e4a1-ccf0-4f14-9b14-6254ddced416","value":"Liberar acesso externo para o interessado"},{"id":"6caba6ee-4344-49c5-b967-aa84229ef483","value":"Verificar informações colhidas para emissão da 2ª via de diploma de graduação"},{"id":"9bf6f93e-7dd7-462b-94bb-62af2d5268e2","value":"Informações ok?"},{"id":"f2cee320-30ea-4759-a26d-73569d1a3da4","value":"Registro anterior a 2012?"},{"id":"42c8c040-eef0-4dd4-af22-62f9e848bc7e","value":"Registrar documentos e informações para emissão do diploma"},{"id":"99179b5c-68ad-4d7f-a986-c6233ee4ff03","value":"Registrar documentos e informações para emissão do diploma"},{"id":"b03add83-7c0e-41f0-b25f-bc8d0799bc2c","value":"Corrigir informações"},{"id":"9fd18934-02b4-4165-af83-0f63268915fd","value":"Incluir documento 300 - Termo de responsabilidade expedição diplomas"},{"id":"6eb16cef-bc81-4f33-8f6c-eeb4492117d7","value":"Emitir 2ª via de diploma"},{"id":"0aa1c074-a90f-45c9-97a3-fdcd60480924","value":"Enviar 2ª via de diploma para assinatura da Reitoria e da PROGRAD"},{"id":"06d46381-6352-4f37-b41e-8cf8ebd7b5e3","value":"Assinar 2ª via de  diploma"},{"id":"48a688df-f7bc-427f-978e-c7ef87923736","value":"Assinar 2ª via de  diploma"},{"id":"306dcd37-ef60-4f16-9b7a-cce7dd52cca5","value":"Guardar 2ª via de diploma em local designado"},{"id":"83d614cb-dade-491d-969d-c4fe3d064c16","value":"Notificar interessado para retirar documento"},{"id":"a2df6ca2-3cb5-4b6b-af2e-68b6d72ade9c","value":"Retirar 2ª via de diploma"},{"id":"6ea59009-0fe4-4be8-bcdf-0aa3511f75ee","value":"Assinar documento 012 - Protocolo de retirada de diploma"},{"id":"ce40b3dc-370d-4b25-b1d1-651ea2886686","value":"Incluir documento 012 - Protocolo de retirada de diploma"},{"id":"4f37675b-a295-48a6-9184-b0043bfeb3f2","value":"Enviar processo para a Divisão de Arquivo"},{"id":"2973e377-9d26-47c4-a490-d9078e412783","value":""},{"id":"03aa3b77-41b1-4b51-a982-6082e5383755","value":"Problema resolvido?"},{"id":"40c0de43-6cf8-43dd-97ce-924e82c33696","value":"Incluir documento 872 - Despacho simples"},{"id":"d348d162-4808-4ae0-ae0c-836736376d7d","value":"Realizar tratamento arquivístico"},{"id":"0098e8d8-eb92-471d-962c-5fe972840707","value":""},{"id":"6184b0d4-7f66-4d00-9159-8a28363ed3f1","value":"Incluir em PDF comprovante de publicação no DOU"},{"id":"609b9602-e645-441a-bf43-bdcabb0e2a32","value":"Registrar emissão de diploma no DOU"},{"id":"3556573a-e318-457b-b287-c746d646e86e","value":"Publicar emissão do diploma no site da UFCSPA"},{"id":"2c72aad2-4e3d-49b9-b007-a95bf34c2c9d","value":"Necessário entrar em contato com o interessado para corrigir informações?"},{"id":"2259fdae-fce1-4b7d-a0a9-a7c08e865edf","value":"Entrar em contato com o interessado"},{"id":"2b7006d4-030c-47ba-99c6-df4aacaec8e6","value":"Comunicar interessado"},{"id":"2f6f6c4d-3f29-49fe-a91d-b6714d8847ff","value":"Aguardar retorno das informações da UFRGS"},{"id":"bf6afc70-90d9-4ed5-b345-5f103f6bbf3b","value":""},{"id":"235af4ea-f38f-43e2-977b-d337c8d1c2ae","value":""},{"id":"ca8ed4af-942e-4097-bb3c-1e716b44c693"},{"id":"87e00eb5-db0e-4752-b225-e6b990299df8"},{"id":"08958241-623a-43e6-a7f8-240c5168cef7"},{"id":"985f026d-e93a-4b37-9a27-efa9e2423a86"},{"id":"d4b16e12-6b74-450e-ab4c-1af1ddedb4d0"},{"id":"7c462b74-3cef-4e3f-b5e5-938f67ac741d"},{"id":"c2332941-6f88-44d2-b136-0fb4fb9c965c"},{"id":"9457246b-bb07-4b29-b8ab-6b82c089e492"},{"id":"d1e6ab5d-d178-43dc-814f-729a88921bd7"},{"id":"0d3677d8-1659-4f00-ba0f-5f84e217ed0e"},{"id":"e4c1375b-1cb2-4e88-9013-70923904dbd6"},{"id":"9a1dc535-1b2b-4a2b-a094-0deeeda895ce"},{"id":"67ad9576-b58e-4f2b-8bd4-fe99dc00901a"},{"id":"882f051d-c4f8-4603-82c3-543cc9344b23"},{"id":"31b61290-151f-45b4-a1a1-0021be713299"},{"id":"1205c5ef-b86f-45c6-b77d-309e47dbecd3"},{"id":"e217a483-77b0-4905-849c-017e89915766"},{"id":"9b2edf83-1956-4ef3-a2ba-8c18fb2fb2df"},{"id":"7e422034-7d32-4c68-8fea-867fc2c197f0"},{"id":"599bace2-8af7-4da7-b089-e89a6d983972"},{"id":"7bc3527d-8dae-4164-bb35-7f21a69f7188"},{"id":"7490e5c7-fab8-4b18-aba5-cd63913eface"},{"id":"7a9ffee5-c5e3-4dcd-b476-39d9854343de"},{"id":"9e0999a9-e8ac-410a-a89a-7fda9ca73332"},{"id":"9f39f17c-5171-4b5a-9f91-0a4dba9544fd"},{"id":"95282113-da33-4d96-8b22-616a9adf4700"},{"id":"eeffbfee-35c3-4254-929d-7a8b85c4f123"},{"id":"56ce79e0-174d-4e74-b5c2-6b435e4bdd35"}]}]}
